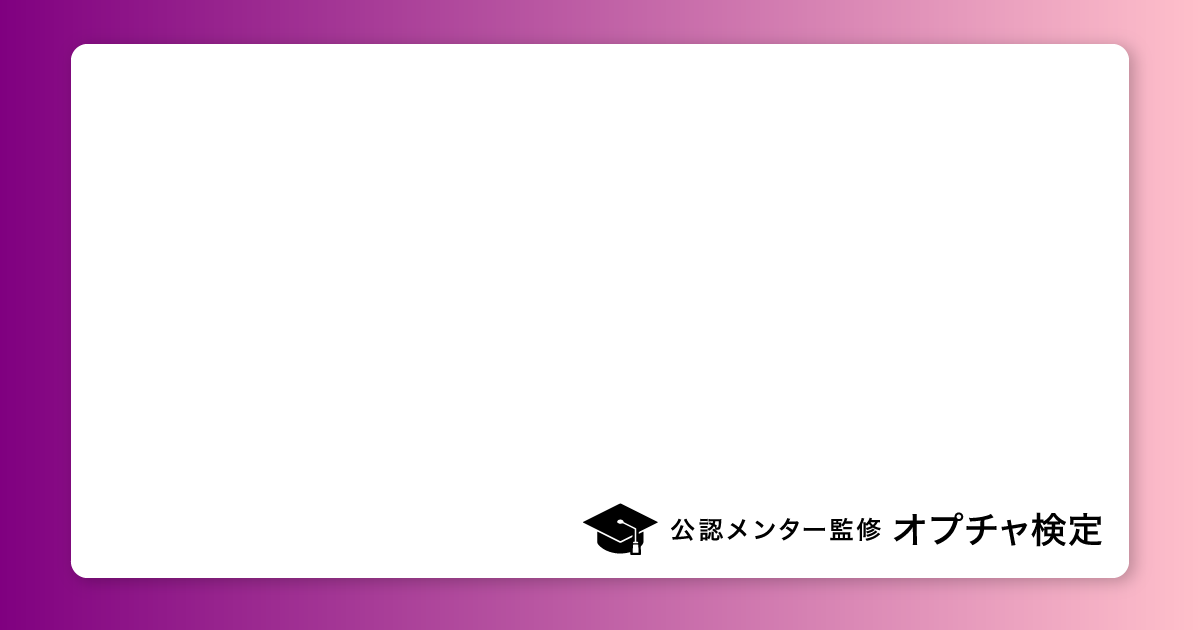
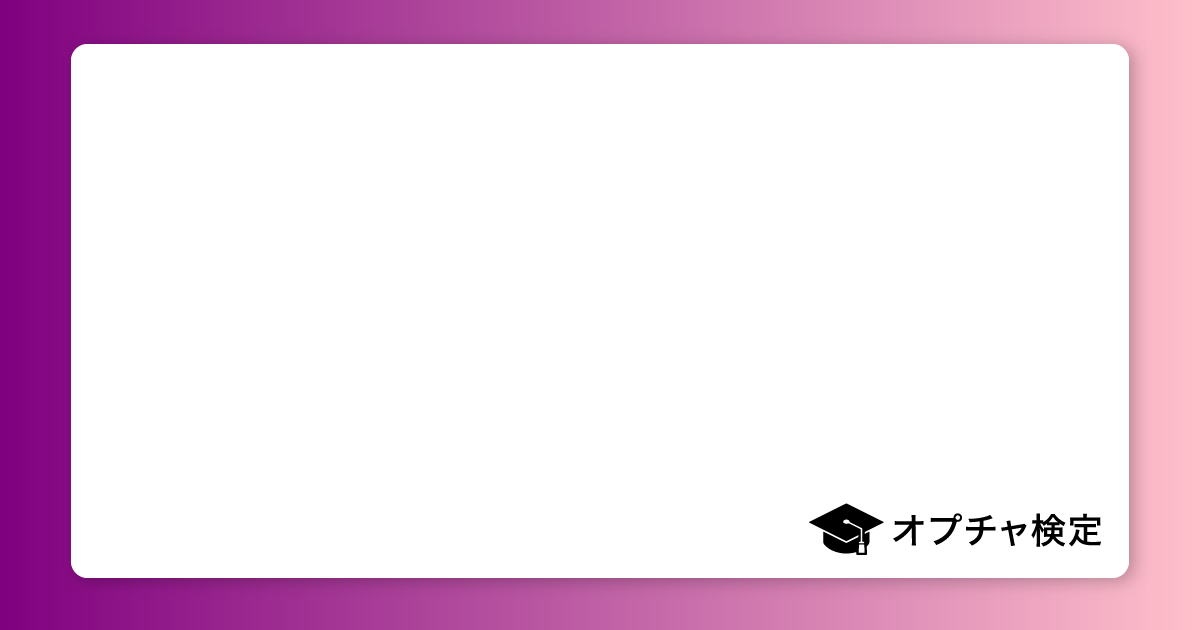
modified:   storage/font/text-ogp-quiz.png

Changed region(s): [[0.4933, 0.7841, 0.925, 0.8746]]

diff --git a/app/Views/Classes/Content/Accreditation/AccreditationAdminViewContent.php b/app/Views/Classes/Content/Accreditation/AccreditationAdminViewContent.php
@@ -150,6 +150,7 @@ class AccreditationAdminViewContent
 
                 .header-logo {
                     display: block;
+                    padding: 0 1rem;
                 }
 
                 @media screen and (max-width: 360px) {
@@ -395,7 +396,7 @@ class AccreditationAdminViewContent
         </p>
         <?php echo $this->profileTerm() ?>
         <p>
-            <small>投稿された問題は、LINEオープンチャット公認メンター監修の元、検定に合わせて編集等を行う場合があります。<br>問題数が限られているので、実際に出題されるのは一部の範囲の問題となります。</small>
+            <small>投稿された問題は、サイト管理者により検定に合わせて編集等を行う場合があります。<br>問題数が限られているので、実際に出題されるのは一部の範囲の問題となります。</small>
         </p>
     <?php
     }
@@ -415,7 +416,7 @@ class AccreditationAdminViewContent
     {
     ?>
         <p>
-            <small>投稿された問題は、LINEオープンチャット公認メンター監修の元、検定に合わせて編集等を行う場合があります。<br>問題数が限られているので、実際に出題されるのは一部の範囲の問題となります。</small>
+            <small>投稿された問題は、サイト管理者により検定に合わせて編集等を行う場合があります。<br>問題数が限られているので、実際に出題されるのは一部の範囲の問題となります。</small>
         </p>
     <?php
     }
